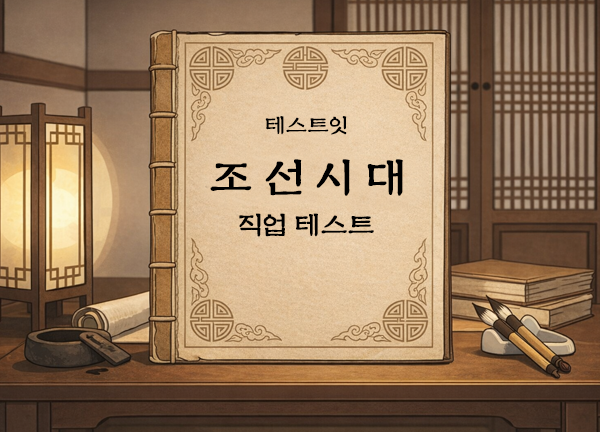
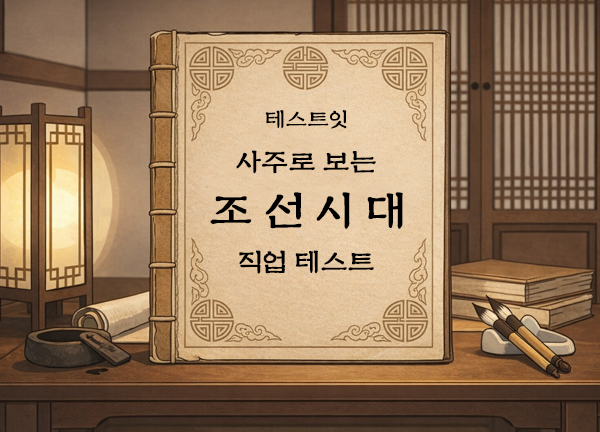
ㄴㅇㄹ

Changed region(s): [[0.33, 0.2407, 0.69, 0.6319]]

diff --git a/test375.html b/test375.html
@@ -15,7 +15,6 @@
 <meta property="og:description" content="사주 일주로 보는 나의 조선시대 직업은?" />
 <meta property="og:url" content="https://test-it.co.kr/test375" />
   <script src="https://cdnjs.cloudflare.com/ajax/libs/lunar-javascript/1.7.4/lunar.min.js"></script>
-  <script src="https://html2canvas.hertzen.com/dist/html2canvas.min.js"></script>
   <style>
     @import url('https://cdn.jsdelivr.net/gh/orioncactus/pretendard/dist/web/static/pretendard.css');
     
@@ -290,7 +289,7 @@
     }
 
     #result-capture-area {
-      background-color: #c0c0c0; /* 캡처 영역 배경을 레트로 윈도우 회색으로 통일 */
+      background-color: #c0c0c0;
       padding: 5px;
     }
 
@@ -376,7 +375,6 @@
       margin-top: 10px;
     }
 
-    /* 이미지 저장용 모달 스타일 */
     #image-modal {
       display: none;
       position: fixed;
@@ -425,6 +423,25 @@
       border-left: 2px solid #000;
       border-right: 2px solid var(--win-border-light);
       border-bottom: 2px solid var(--win-border-light);
+    }
+
+    /* 로딩 프로그레스 바 스타일 */
+    .progress-container {
+      width: 100%;
+      height: 25px;
+      background: #fff;
+      border-top: 2px solid #808080;
+      border-left: 2px solid #808080;
+      border-right: 2px solid #fff;
+      border-bottom: 2px solid #fff;
+      margin-top: 20px;
+      padding: 2px;
+    }
+
+    #progress-bar {
+      width: 0%;
+      height: 100%;
+      background: #000080;
     }
   </style>
 </head>
@@ -490,6 +507,24 @@
       </div>
     </div>
 
+    <div id="loading-screen" class="window" style="display: none;">
+      <div class="title-bar">
+        <div class="title-bar-text">시스템 스캔 중...</div>
+        <div class="title-bar-controls">
+          <button class="title-btn">_</button>
+          <button class="title-btn">X</button>
+        </div>
+      </div>
+      <div class="window-body" style="padding: 40px 20px;">
+        <div style="font-size: 3rem; margin-bottom: 20px;">📜</div>
+        <h2 class="title" style="font-size: 1.2rem; margin-bottom: 10px;">조선시대 호적을 뒤지는 중...</h2>
+        <p class="subtitle" style="margin-bottom: 10px;">사주팔자를 바탕으로 전생을 스캔하고 있습니다.</p>
+        <div class="progress-container">
+           <div id="progress-bar"></div>
+        </div>
+      </div>
+    </div>
+
     <div id="result-screen" style="display: none;">
       <div id="result-capture-area">
         <div class="window">
@@ -546,7 +581,6 @@
   </div>
 
   <script>
-    // 60갑자 데이터: 각 특징 7개로 대폭 확장
     const pastLifeData = {
       "갑자": { character: "깐깐한 사헌부 대사헌", traits: ["융통성 제로의 꼿꼿한 원칙주의자", "뇌물은 쳐다도 안 보는 청렴결백", "한번 물면 안 놓는 집요함", "남들 눈치 안 보는 마이웨이", "겉으론 차가워도 속은 나라 걱정뿐", "결과보다 과정을 중요하게 생각함", "자기 관리에 철저하고 흐트러짐이 없음"], desc: "추운 겨울의 튼튼한 거목처럼 흔들림이 없습니다. 관원들의 비리를 감찰하고 왕에게도 팩트 폭행을 서슴지 않던 조선 최고의 감찰관이었습니다." },
       "을축": { character: "악착같은 개성상인", traits: ["엄청난 인내심과 끈기의 소유자", "한 푼도 헛투루 안 쓰는 짠돌이/짠순이", "조용히 뒤에서 판을 짜는 실세", "보수적이고 변화를 썩 안 좋아함", "돈 냄새를 기가 막히게 맡음", "한번 화나면 걷잡을 수 없이 무서움", "남에게 아쉬운 소리 하는 것을 극혐함"], desc: "진흙 속에서 피어나는 꽃처럼 끈질긴 생명력이 있습니다. 아무리 거친 환경에서도 묵묵히 이문을 남겨 거상이 된 전설의 개성상인이었습니다." },
@@ -560,7 +594,7 @@
       "계유": { character: "신점 족집게 무당", traits: ["상대방의 과거나 기분을 귀신같이 맞춤", "조용하지만 굿판에선 에너지가 폭발함", "기억력이 좋고 계산이 빠름", "마음에 없는 소리를 잘 못하는 직구러", "영감이 무서울 정도로 뛰어나고 촉이 좋음", "남의 마음을 읽는 직관력이 매우 발달함", "티 내지 않고 조용히 자신의 이득을 취함"], desc: "바위틈에서 솟아나는 맑은 물처럼 영감이 뛰어나고 섬세합니다. 정승 판서들도 밤에 몰래 찾아와 조언을 구하던 저잣거리 최고의 족집게 무당이었습니다." },
       "갑술": { character: "유배지 외골수 선비", traits: ["불의를 보면 유배 가도 상소문 씀", "자신이 믿는 학문은 끝까지 밀어붙임", "은근히 선비로서의 체면을 중요시함", "상황을 주도하려는 꼰대력이 살짝 있음", "겉은 뻣뻣해도 속은 따뜻한 츤데레", "자신의 신념과 어긋나면 단호하게 잘라냄", "책임감이 강해 궂은일도 마다하지 않음"], desc: "마른 땅에 뿌리내린 나무처럼 악조건 속에서도 자기주장을 굽히지 않습니다. 임금에게 바른말을 하다 섬으로 유배를 갔지만 그곳에서도 후학을 양성하던 참선비였습니다." },
       "을해": { character: "유랑극단 남사당패 어름산이", traits: ["어느 동네든 금방 섞이는 미친 적응력", "부드러운 카리스마로 관객을 홀림", "방랑벽이 있어 한곳에 잘 정착 못함", "직관적이고 관객의 눈치를 매우 잘 봄", "이상주의자이면서도 팁은 잘 챙김", "눈치가 빨라 어디서든 살아남는 처세술", "자유를 억압받으면 스트레스를 심하게 받음"], desc: "물 위에 뜬 수초처럼 유연하고 환경 적응력이 타의 추종을 불허합니다. 줄타기 위에서 아슬아슬한 묘기와 입담으로 백성들의 혼을 쏙 빼놓던 광대였습니다." },
-      "병자": { character: "이중생활 암행어사", traits: ["낮에는 거지, 밤에는 탐관오리 저승사자", "사람들 앞에 나서서 마패 드는 걸 즐김", "머리 회전이 빠르고 아이디어가 통통 튐", "규칙과 유도리 사이에서 자주 갈등함", "자신만의 정의에 대한 철학이 확고함", "낮과 밤, 겉과 속의 텐션이 묘하게 다름", "남다른 예술적 감각과 통통 튀는 매력"], desc: "어둠 속의 태양처럼 정체를 숨기고 있다가 결정적일 때 빛을 발합니다. 거지꼴로 팔도를 돌아다니다가 탐관오리를 보면 마패를 던지며 호통치던 어사였습니다." },
+      "병자": { character: "이중생활 암행어사", traits: ["낮에는 거지, 밤에는 탐관오리 저승사자", "사람들 앞에 나서서 마패 드는 걸 즐김", "머리 회전이 빠르고 아이디어가 통통 튐", "규칙과 유도리 사이에서 자주 갈등함", "자신만의 정의에 대한 철학이 확고함", "낮과 밤, 겉과 속의 텐션이 묘하게 다름", "남다른 예술적 감각과 통통 튀는 매력"], desc: "어둠 속의 태양처럼 정체를 숨기고 있다가 결정적일 때 빛을 발합니다. 거지꼴로 팔도를 돌아다니다가 탐관오리를 보면 마패 던지며 호통치던 어사였습니다." },
       "정축": { character: "밤낮없는 놋그릇 장인", traits: ["하나에 꽂히면 파고드는 집요한 성격", "말수 없이 묵묵히 망치질만 함", "은근한 끈기와 강한 인내력 탑재", "예술적 감각과 손재주가 남다름", "자신의 작품에 흠집 나는 걸 못 견딤", "말보다는 묵묵한 행동으로 보여주는 타입", "한 분야를 깊게 파고드는 장인정신"], desc: "용광로처럼 뜨거운 집념을 차가운 공방에 숨기고 있습니다. 밤낮없이 쇳물을 녹이고 두드려 양반가에서 가장 탐내는 최고급 유기를 만들어내던 장인이었습니다." },
       "무인": { character: "백두산 착호갑사(호랑이 사냥꾼)", traits: ["기세가 등등하고 맹수 앞에서도 안 떪", "스스로 사냥조를 이끄는 리더 체질", "한번 타겟팅한 사냥감은 끝까지 쫓음", "체력과 정신력이 타의 추종을 불허함", "강자(호랑이)에겐 강하고 약자에겐 다정함", "승부욕이 강해 남에게 지는 것을 못 참음", "결단력이 빠르고 스케일이 남다름"], desc: "봄날의 큰 산처럼 생동감이 넘치고 용맹합니다. 나라의 명을 받고 깊은 산속의 식인 호랑이를 추적해 활로 꿰뚫어 버리던 전설의 특수부대 사냥꾼이었습니다." },
       "기묘": { character: "궁궐 내전 수목장(정원사)", traits: ["어떤 환경이든 살아남는 잡초 생명력", "세심하고 식물을 가꾸는 손재주가 뛰어남", "은근히 경쟁심이 강해 자기 구역을 지킴", "촉촉하고 감수성이 예민하여 꽃을 사랑함", "남을 돌보고 가꾸는 데 천부적 소질", "작은 일에도 상처받는 예민한 감수성", "남을 보살피고 키워내는 데 탁월한 소질"], desc: "촉촉한 흙에서 자라는 풀처럼 생명력이 끈질기고 섬세합니다. 대비마마가 산책하는 궁궐 후원의 꽃과 나무를 한 치의 오차 없이 다듬어내던 수석 정원사였습니다." },
@@ -661,6 +695,7 @@
     function resetTest() {
       document.getElementById('userName').value = '';
       document.getElementById('result-screen').style.display = 'none';
+      document.getElementById('loading-screen').style.display = 'none';
       document.getElementById('home-screen').style.display = 'block';
     }
 
@@ -690,7 +725,6 @@
           document.getElementById('res-name').innerText = name;
           document.getElementById('res-job').innerText = resultData.character;
           
-          // 일주 서브타이틀 업데이트
           document.getElementById('res-ilju-subtitle').innerText = '조선시대 ' + ilju + '(' + iljuHanja + ') 일주';
           
           const traitsListElement = document.getElementById('res-traits-list');
@@ -703,8 +737,27 @@
 
           document.getElementById('res-job-desc').innerText = resultData.desc;
           
+          // 결과 화면 띄우기 전 3초 로딩 화면 출력
           document.getElementById('input-screen').style.display = 'none';
-          document.getElementById('result-screen').style.display = 'block';
+          document.getElementById('loading-screen').style.display = 'block';
+
+          // 프로그레스 바 애니메이션 설정
+          let progress = 0;
+          let bar = document.getElementById('progress-bar');
+          let interval = setInterval(() => {
+            progress += Math.floor(Math.random() * 10) + 5; 
+            if (progress > 100) progress = 100;
+            bar.style.width = progress + '%';
+          }, 200);
+
+          // 3초 후 로딩창 숨기고 결과창 띄우기
+          setTimeout(() => {
+            clearInterval(interval);
+            document.getElementById('loading-screen').style.display = 'none';
+            document.getElementById('result-screen').style.display = 'block';
+            bar.style.width = '0%'; // 다음 테스트를 위해 초기화
+          }, 3000);
+
         } else {
           alert(`시스템 오류: 일주(${ilju}) 데이터가 존재하지 않습니다.`);
         }